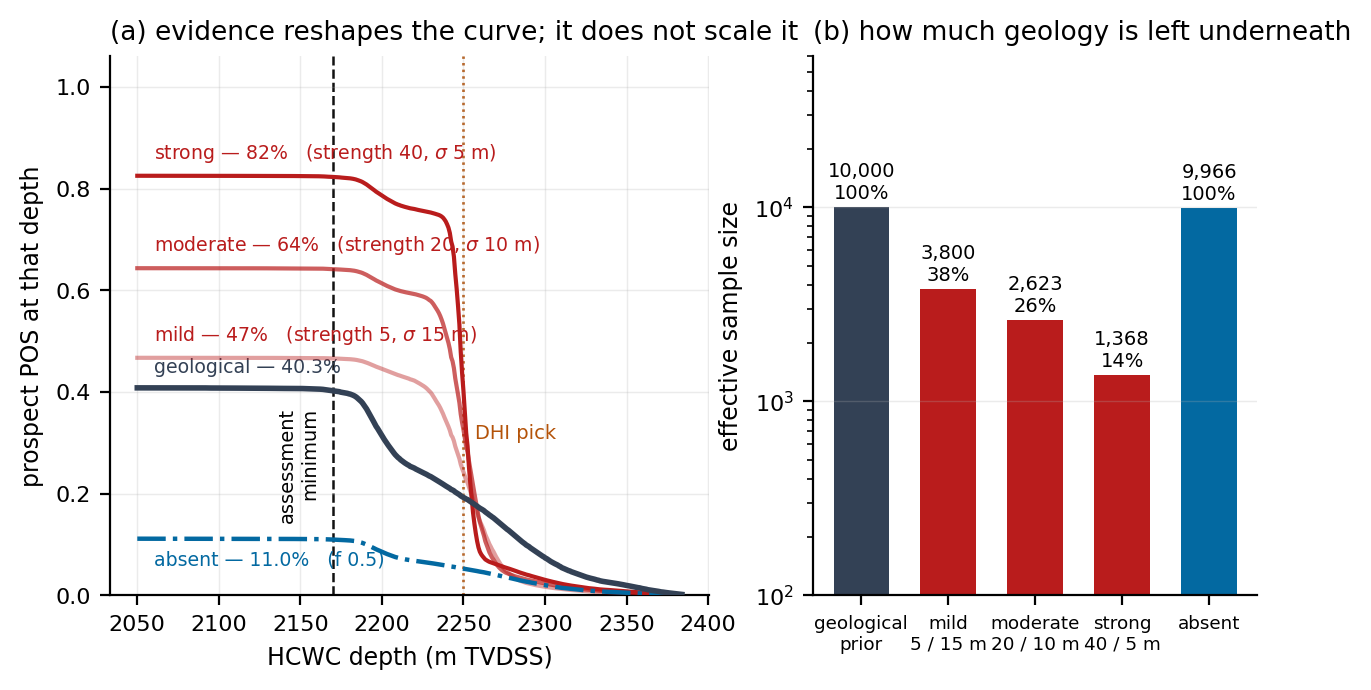
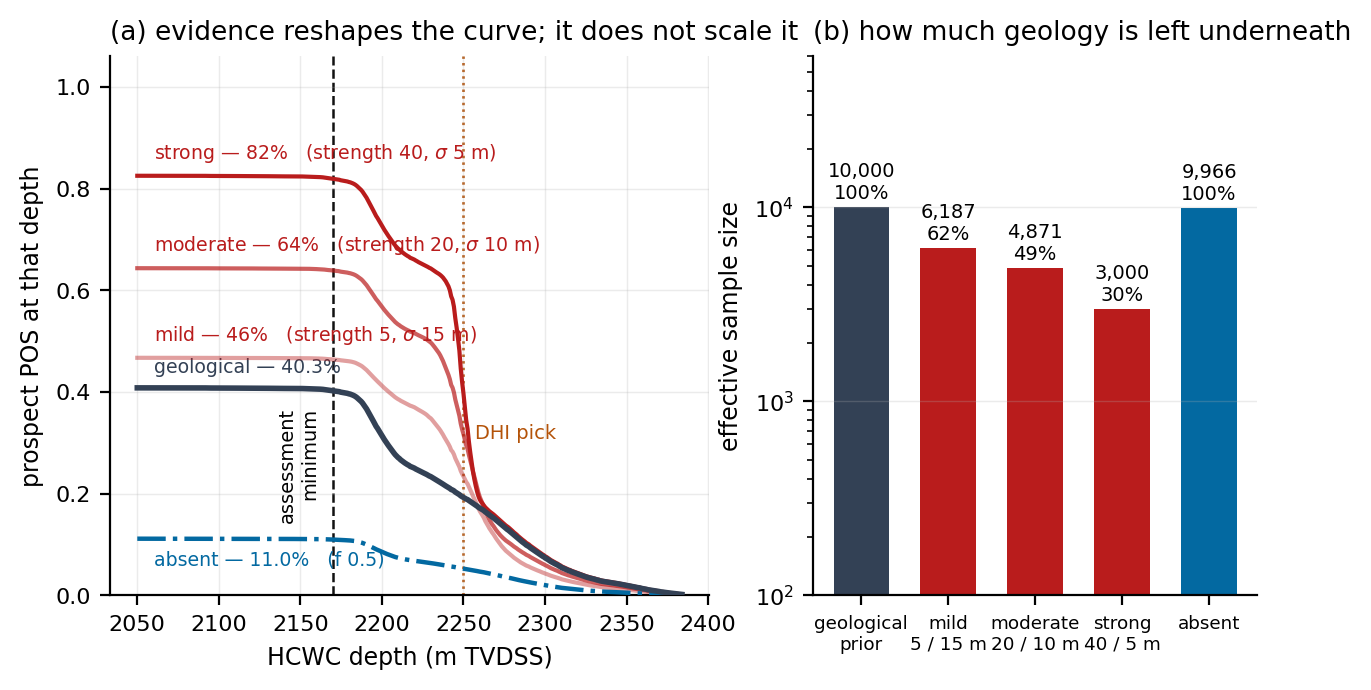
The contact-attribute judgement c opens at 0.36
Lars, 15 Sep 2026, from 0.70. The three attribute selectboxes open on the levels whose
geometric mean is 0.36 (ambiguous fit to structure, diffuse terminations, an absent
fluid-contact reflection), so the attribute route and the slider agree on an untouched tab;
they did not before, the old middle options giving 0.59 against a comment that claimed 0.70.
The slider's anchors say where the default sits. The floor under the pick is 0.64, so the
untouched slider lets the pick say at most 0.56 : 1 against any depth; a well-conformed event
is claimed by moving it.

The paper is re-measured at the new default: the strong pick narrows the contact to 100 m
rather than 22 m and keeps 3,000 rather than 1,368 effective realisations, the moving-pick
detachment comes from 2,350 m, and the floor sentence in section 14.1 reads 0.64. Figure 4 is
regenerated. The bracketing-penetration test is made a real bracket from a connected well; at
the shipped connection chance the floor dominated both of its cases and the weaker pick tipped
a fraction-of-a-metre comparison the wrong way.

Changed region(s): [[0.2144, 0.3043, 0.4595, 0.8826], [0.674, 0.2739, 0.8578, 0.5478], [0.1838, 0.2435, 0.3063, 0.3043]]

diff --git a/hcwc/ui/dhi_tab.py b/hcwc/ui/dhi_tab.py
@@ -51,14 +51,25 @@ OPENING_STRENGTH = 5.0
 #: `P(the picked event is the contact | there is hydrocarbon)` — the conditional factor the
 #: geophysicist supplies. `p_valid` is this times the amplitude-updated `P(G)`, so the two
 #: judgements stay separate and the product cannot exceed the chance of any hydrocarbon.
-DEFAULT_CONTACT_GIVEN_HC = 0.70
+#: 0.36 since 15 Sep 2026 (Lars), from 0.70: a cautious opening value, the geometric mean of an
+#: ambiguous fit to structure, diffuse terminations and an absent fluid-contact reflection. The
+#: floor under the pick is then 0.64, so an untouched slider lets the pick say at most 0.56 : 1
+#: against any contact depth; a well-conformed event is claimed by moving it.
+DEFAULT_CONTACT_GIVEN_HC = 0.36
 
 #: The three **contact** attributes, after Monigle et al. (2025), who separate them from the
 #: *body* attributes that grade the amplitude. These answer whether the picked event is the
 #: base of the column; the strength slider answers whether there is a column. The numbers are
 #: elicited judgements, not a calibration -- which is why the result is offered rather than
-#: applied. Shipped defaults are the middle options and give c = 0.70, so the suggestion
-#: agrees with the slider's own default and applying it moves nothing.
+#: applied. The shipped selections (:data:`DEFAULT_ATTRIBUTE_LEVELS`) give c = 0.36, the
+#: slider's own default, so applying the suggestion on an untouched tab moves nothing.
+#: The option each attribute opens on: the levels whose geometric mean is the shipped c.
+DEFAULT_ATTRIBUTE_LEVELS: dict[str, str] = {
+    "Fit to structure": "Ambiguous",
+    "Amplitude terminations": "Diffuse or long",
+    "Fluid contact reflection": "Absent, where one was expected",
+}
+
 CONTACT_ATTRIBUTES: dict[str, dict[str, float]] = {
     "Fit to structure": {
         "Flat, conformable, cuts dipping structure": 0.95,
@@ -736,7 +747,8 @@ def render(n: Numbering | None = None) -> None:
         cols = st.columns(len(CONTACT_ATTRIBUTES))
         for col, (attribute, levels) in zip(cols, CONTACT_ATTRIBUTES.items()):
             picked_levels[attribute] = col.selectbox(
-                attribute, list(levels), index=1,
+                attribute, list(levels),
+                index=list(levels).index(DEFAULT_ATTRIBUTE_LEVELS[attribute]),
                 key=f"dhi_in_attr_{attribute.replace(' ', '_').lower()}")
         scores = [CONTACT_ATTRIBUTES[a][lv] for a, lv in picked_levels.items()]
         suggested_c = float(np.prod(scores) ** (1.0 / len(scores)))
@@ -786,9 +798,10 @@ def render(n: Numbering | None = None) -> None:
         "- 0.9 and up: a flat, conformable event that cuts dipping structure, with a clear "
         "fluid contact reflection.\n"
         "- 0.6 to 0.8: conformable and plausibly a contact, with something missing: no FCR, or "
-        "terminations that are not sharp. The shipped default sits here.\n"
+        "terminations that are not sharp.\n"
         "- 0.3 to 0.5: the event is there and flat, and so is a plausible lithological "
-        "explanation.\n"
+        "explanation. The shipped default of 0.36 sits here; a well-conformed event is "
+        "claimed by moving the slider rather than by leaving it.\n"
         "- Below 0.2: the event would not have been picked on a less interesting prospect. "
         "Whether there is a DHI at all is the question at this level."
     )

diff --git a/tests/test_app_renders.py b/tests/test_app_renders.py
@@ -221,11 +221,17 @@ def test_a_bracketing_penetration_is_the_sharpest_evidence_the_tool_takes():
         c = np.asarray(at.session_state["dhi_overlay"]["contact_samples"], float)
         return float(np.percentile(c, 90) - np.percentile(c, 10))
 
-    p90, p50, _ = _contact_quantiles()
-    bracket = _well(well_in_hc_on=True, well_in_hc=p90)
+    # Hydrocarbons proven 40 m above the water, from a well taken as connected: a real bracket.
+    # With the proven depth at the contact's own P90 the bracket excluded almost nothing, and at
+    # the shipped connection chance of 0.6 the floor of 0.4 under the likelihood dominates both
+    # cases, so the two spreads differed by a fraction of a metre and the comparison was decided
+    # by the resample's noise -- which the weaker shipped pick of 15 Sep 2026 (c = 0.36) tipped
+    # the wrong way. The proposition is about the bracket, so the floor is lowered to show it.
+    _, p50, _ = _contact_quantiles()
+    bracket = _well(well_in_hc_on=True, well_in_hc=p50 - 40.0, well_in_connected=0.95)
     _no_exception(bracket, "a bracketing penetration")
-    assert spread(bracket) < spread(_well())
-    assert spread(bracket) < spread(_run())
+    assert spread(bracket) < 0.9 * spread(_well(well_in_connected=0.95))
+    assert spread(bracket) < 0.9 * spread(_run())
 
 
 def test_hydrocarbons_below_the_water_leg_is_refused_where_it_is_typed():

diff --git a/scripts/paper_figures.py b/scripts/paper_figures.py
@@ -48,7 +48,7 @@ PICK_M = 2250.0
 #: `P(the picked event is the contact | G, contact attributes)`, the app's own default. This
 #: *is* `p_valid`: conditional on hydrocarbons, because the realisations it weights are. The
 #: chance of hydrocarbons enters once, through `P(G)` updated by the amplitude, and never here.
-CONTACT_GIVEN_HC = 0.70
+CONTACT_GIVEN_HC = 0.36
 #: The app's own default. Figures are drawn at the count a reader would
 #: reproduce, not at a smoother one.
 N = 10_000

diff --git a/docs/ARTICLE.md b/docs/ARTICLE.md
@@ -32,9 +32,10 @@ importance-sampling implementation of Bayes' rule that requires no re-simulation
 controlling-mechanism bookkeeping intact. The amplitude character updates the chance that the
 elements worked and the picked geometry updates the column given that they did, so the prospect
 chance at a threshold is the product of the two. On the worked prospect a mild anomaly raises
-prospect POS from 40.3 % to 46.6 % and a strong one to 82.3 %, while the picked contact narrows
-the P90–P10 spread of the contact from 130 m to 22 m; the effective sample size behind the update
-— 10,000 realisations reduced to 3,800, or to 1,368 for a strongly stated interpretation —
+prospect POS from 40.3 % to 46.4 % and a strong one to 81.9 %, while the picked contact narrows
+the P90–P10 spread of the contact from 130 m to 100 m at the shipped contact-attribute judgement
+of $c = 0.36$; the effective sample size behind the update — 10,000 realisations reduced to 6,187,
+or to 3,000 for a strongly stated interpretation —
 measures how far the seismic evidence has displaced the geology.
 
 An open-source implementation makes the workflow available for practical prospect evaluation
@@ -504,9 +505,9 @@ prospect, with the pick deliberately vague ($\sigma = 200$ m) so that geometry s
 | | prospect POS | contact P50 | P90–P10 | ESS |
 |---|---:|---:|---:|---:|
 | geological prior | 40.3 % | 2,246 m | 130 m | 10,000 |
-| character only — strength 40, $\sigma$ 200 m | **81.4 %** | **2,246 m** | 128 m | 9,994 |
-| geometry only — neutral character, $\sigma$ 5 m | 40.7 % | 2,250 m | **22 m** | 1,368 |
-| both — strength 40, $\sigma$ 5 m | 82.3 % | 2,250 m | **22 m** | 1,368 |
+| character only — strength 40, $\sigma$ 200 m | **81.4 %** | **2,246 m** | 129 m | 9,999 |
+| geometry only — neutral character, $\sigma$ 5 m | 40.5 % | 2,249 m | **100 m** | 3,000 |
+| both — strength 40, $\sigma$ 5 m | 81.9 % | 2,249 m | **100 m** | 3,000 |
 
 **Character moves the chance and leaves the depth alone**: POS rises from 40.3 % to 81.4 % while
 the P50 contact does not move, the spread is unchanged, and the effective sample size stays at
@@ -515,8 +516,8 @@ the 200 m pick, which is not quite uninformative.
 
 **Geometry reshapes the distribution.** On this prospect it barely moves the median, because the
 pick at 2,250 m happens to sit almost exactly on the geological P50 of 2,246 m; there is nothing
-for it to shift. What it does instead is *narrow* — 130 m to 22 m — at the cost of four fifths of
-the effective sample. It moves the chance by less than half a point, and that too is a property of
+for it to shift. What it does instead is *narrow* — 130 m to 100 m at $c = 0.36$, and to 22 m
+were $c$ raised to 0.70 — at the cost of seven tenths of the effective sample. It moves the chance by less than half a point, and that too is a property of
 the example: the assessment minimum is 120 m of column and the pick sits 200 m below the apex, so
 almost every realisation clears the minimum before and after. On a prospect whose minimum fell
 inside the range of columns the pick favours, the same narrowing would move the chance; on one
@@ -602,7 +603,7 @@ detection function concentrates the posterior into a band over which $D(h)$ is n
 constant to cancel.
 
 **The likelihood floor does more.** Dropping $L \geq 1 - c$ instead moves the same curve by up to
-seven points of exceedance at $c = 0.70$. That comparison is worth stating because the intuition
+19 points of exceedance at the shipped $c = 0.36$, and by seven at $c = 0.70$. That comparison is worth stating because the intuition
 runs the other way: the detection function is the novel-looking term, and the floor looks like a
 safety rail. On any prospect where the interpreter is less than certain the picked event is a
 contact, the floor is the term doing the work, and §14.1 is why.
@@ -618,7 +619,7 @@ ratio that lowers the chance. Section 12 is that case.
 prospect has a P50 column of 195 m against a detection midpoint of 25 m, so every column under
 discussion is comfortably detectable and the function has nothing to discriminate. Move that
 midpoint to 250 m — a thin, poorly imaged reservoir where only an unusually tall column would show
-— and it becomes the dominant term, worth up to 28 points of exceedance. The direction is the one
+— and it becomes a term of the same size as the floor, worth up to 18 points of exceedance. The direction is the one
 worth holding on to: if only a tall column could have been seen, then having seen one is evidence
 that the column is tall, so accounting for detectability *raises* the answer rather than
 discounting it.
@@ -641,7 +642,7 @@ multiplicative correction to POS. It changes the *shape* of the column-height di
 > observations at a picked contact of 2,250 m and for an absent anomaly. The curves do not merely lift: each develops a step
 > at the pick, because the evidence moves probability toward the depths the interpreted event
 > supports and away from those it argues against. (b) The effective sample size behind each update.
-> A strongly stated interpretation leaves 1,368 of 10,000 realisations carrying the answer.
+> A strongly stated interpretation leaves 3,000 of 10,000 realisations carrying the answer.
 
 Read as depth-dependent risk, on the worked prospect with a mild anomaly, the curve being
 $P(G \mid \text{character}) \times F(h)$ in both columns:
@@ -649,18 +650,18 @@ $P(G \mid \text{character}) \times F(h)$ in both columns:
 | chance the contact reaches | geological | given the DHI |
 |---|---:|---:|
 | 2,150 m | 40.7 % | 46.7 % |
-| 2,200 m | 31.4 % | **44.6 %** |
-| 2,250 m | 19.3 % | 24.3 % |
-| 2,300 m | 7.4 % | **1.7 %** |
+| 2,200 m | 31.4 % | **41.3 %** |
+| 2,250 m | 19.3 % | 23.5 % |
+| 2,300 m | 7.4 % | **4.3 %** |
 
-The chance at 2,200 m rises by thirteen points while the chance at 2,300 m falls by six. **A
+The chance at 2,200 m rises by ten points while the chance at 2,300 m falls by three. **A
 single POS multiplier cannot express that**, and neither can a scenario switch: both would move
 $P(\text{success})$ without specifying how $P(H \geq h)$ changes as a function of $h$. A likelihood
 defined on column height does both, and this is the direct connection between seismic
 interpretation and depth-dependent prospect risk.
 
-The distribution also **narrows** — from a 130 m P90–P10 spread to 55 m at the mild setting and
-22 m at the strong one. Evidence is supposed to sharpen an estimate as well as move it, and a
+The distribution also **narrows** — from a 130 m P90–P10 spread to 99 m at the mild setting and
+100 m at the strong one, the floor of $1 - c = 0.64$ holding the rest in place. Evidence is supposed to sharpen an estimate as well as move it, and a
 scenario switch, which mixes two branches, can only broaden.
 
 ---
@@ -733,17 +734,17 @@ which reports how many of the original realisations the posterior effectively re
 | interpretation | prospect POS | contact P50 | P90–P10 | ESS |
 |---|---:|---:|---:|---:|
 | geological prior | 40.3 % | 2,246 m | 130 m | 10,000 |
-| mild — strength 5, $\sigma$ 15 m | 46.6 % | 2,251 m | 55 m | 3,800 |
-| moderate — strength 20, $\sigma$ 10 m | 64.2 % | 2,250 m | 39 m | 2,623 |
-| strong — strength 40, $\sigma$ 5 m | 82.3 % | 2,250 m | 22 m | **1,368** |
+| mild — strength 5, $\sigma$ 15 m | 46.4 % | 2,250 m | 99 m | 6,187 |
+| moderate — strength 20, $\sigma$ 10 m | 63.9 % | 2,250 m | 99 m | 4,871 |
+| strong — strength 40, $\sigma$ 5 m | 81.9 % | 2,249 m | 100 m | **3,000** |
 | absent where one was expected, $f = 0.5$ | 11.0 % | 2,246 m | 130 m | 9,966 |
 
 A low ESS does not mean the interpretation is wrong. It means the posterior depends heavily on it.
-At 1,368 the answer rests on under a seventh of the geological realisations, and should be
+At 3,000 the answer rests on under a third of the geological realisations, and should be
 presented as such. The number belongs beside the result, not in an appendix.
 
 The ESS reports the geometry channel only. The character channel updates a single number and
-throws no realisations away, which is why the chance can move from 40.3 % to 82.3 % on the strong
+throws no realisations away, which is why the chance can move from 40.3 % to 81.9 % on the strong
 row while the ESS is the same as for a neutral character at the same pick (§10). The absent row
 is the converse: nothing is reweighted because every column sits on the detection ceiling, and
 the whole move is the absence ratio of §12 acting on the chance.
@@ -768,9 +769,10 @@ from $p(h \mid G)$, so the term is the contact-attribute judgement of §10.2 and
 chance of hydrocarbons. An earlier draft multiplied it by $P(G \mid \text{amplitude})$ as a
 ceiling; §10.2 records why that was withdrawn.
 
-With $c = 0.70$ the floor sits at $0.30$, so **thirty per cent of the weight on every realisation
-is untouchable by the pick**, however sharply it is drawn, and the depth channel can say at most
-$0.70 / 0.30 = 2.3 : 1$ against any contact depth.
+With the shipped $c = 0.36$ the floor sits at $0.64$, so **sixty-four per cent of the weight on
+every realisation is untouchable by the pick**, however sharply it is drawn, and the depth channel
+can say at most $0.36 / 0.64 = 0.56 : 1$ against any contact depth. A well-conformed event is
+claimed by raising $c$: at 0.70 the floor is 0.30 and the channel can say 2.3 : 1.
 
 Its behaviour under a pick the geology considers implausible is instructive. Holding the character
 strong (strength 40) and the pick sharp ($\sigma = 5$ m) and moving the picked contact progressively
@@ -778,26 +780,26 @@ deeper:
 
 | picked contact | prospect POS | contact P50 | P90–P10 | ESS |
 |---|---:|---:|---:|---:|
-| 2,250 m — well supported | 82.3 % | 2,250 m | 22 m | 1,368 |
-| 2,300 m | 82.3 % | 2,299 m | 62 m | 1,325 |
-| 2,350 m | 82.0 % | 2,345 m | 156 m | 857 |
-| 2,400 m | 81.5 % | 2,258 m | 200 m | 1,889 |
+| 2,250 m — well supported | 81.9 % | 2,249 m | 100 m | 3,000 |
+| 2,300 m | 81.9 % | 2,295 m | 110 m | 2,937 |
+| 2,350 m | 81.6 % | 2,271 m | 160 m | 3,639 |
+| 2,400 m | 81.4 % | 2,249 m | 142 m | 7,706 |
 | 2,500 m — beyond all support | 81.4 % | **2,246 m** | 130 m | **10,000** |
 
-The contact follows the pick while the geological model supports it, then **detaches**. At 2,350 m
-the posterior median still follows, but the spread has opened from 22 m to 156 m and the
-effective sample has fallen to 857: the pick is being carried by a thinning tail of realisations.
-At 2,400 m the median has fallen back toward the prior, and at 2,500 m it is the prior exactly
+The contact follows the pick while the geological model supports it, then **detaches**. At 2,300 m
+the posterior median still follows; at 2,350 m it has already fallen back to 2,271 m with the
+spread opened to 160 m, the pick being carried by a thinning tail of realisations against a
+floor of 0.64. At 2,400 m the median is back at the prior's, and at 2,500 m it is the prior exactly
 with the effective sample size returned to 10,000 — the likelihood has become flat, so the
 reweighting does nothing. The model has concluded *that is probably not a contact* rather than
 *the contact is at 2,500 m*.
 
-Note that the ESS is **not monotone**: it falls as the evidence sharpens against the prior, then
-rises again as the floor takes over — 857 at 2,350 m, back to 10,000 at 2,500 m. That
+Note that the ESS is **not monotone**: it dips as the evidence sharpens against the prior, then
+rises as the floor takes over — 2,937 at 2,300 m, 3,639 at 2,350 m, back to 10,000 at 2,500 m. That
 non-monotonicity is the tell, and it is why ESS should be read alongside the answer rather than as
 a quality score. Note also that POS stays at 81–82 % throughout, which is correct — the character
 channel still reports a bright anomaly, and a bright anomaly is evidence for hydrocarbons even when
-the interpreter has mislocated the contact. The one-point fall from 82.3 % to 81.4 % is the
+the interpreter has mislocated the contact. The half-point fall from 81.9 % to 81.4 % is the
 geometry channel giving back the small share of realisations below the assessment minimum that
 the well-supported pick had argued against.
 
